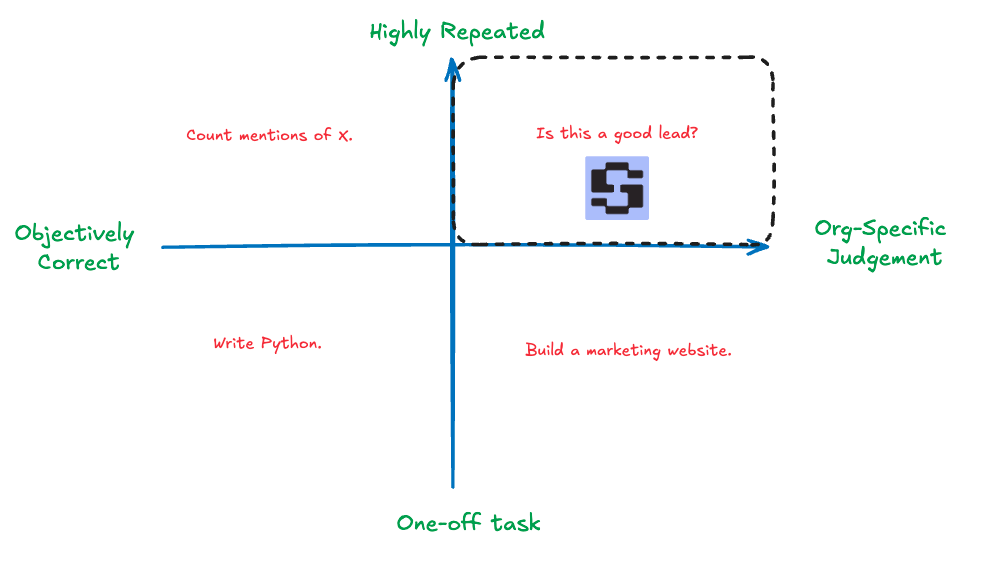
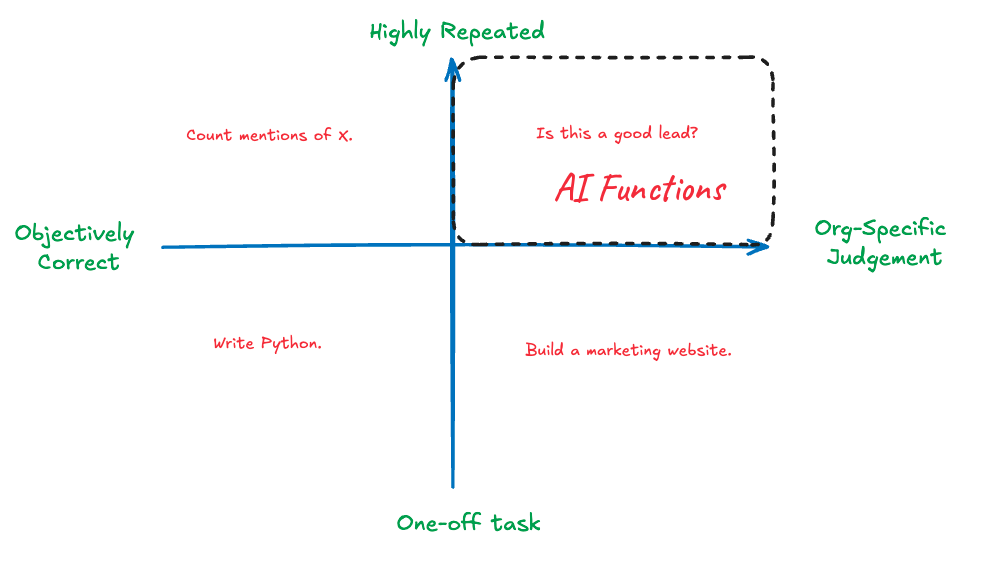
docs: editorial polish for Sutro subjectivity-gap guest post
Apply maintainer editorial over PR #458: house-voice copy, appendix tables,
updated subjectivity-gap figure, Community Blogs section for guest posts,
Contributed by byline, and pagination_per_page 50 so guest posts stay on
the same index page.

Changed region(s): [[0.5505, 0.2713, 0.7339, 0.3918]]

diff --git a/docs/overrides/blog.html b/docs/overrides/blog.html
@@ -5,9 +5,30 @@
       <header class="md-typeset">
         {{ page.content }}
       </header>
+
+      {#- Partition posts: guest frontmatter goes to Community Blogs; everything else is Main -#}
+      {% set ns = namespace(main=[], guest=[]) %}
       {% for post in posts %}
-        {% include "partials/post.html" %}
+        {% if post.meta.get("guest") %}
+          {% set _ = ns.guest.append(post) %}
+        {% else %}
+          {% set _ = ns.main.append(post) %}
+        {% endif %}
       {% endfor %}
+
+      {% if ns.main %}
+        {% for post in ns.main %}
+          {% include "partials/post.html" %}
+        {% endfor %}
+      {% endif %}
+
+      {% if ns.guest %}
+        <h2 class="blog-section-title md-typeset">Community Blogs</h2>
+        {% for post in ns.guest %}
+          {% include "partials/post.html" %}
+        {% endfor %}
+      {% endif %}
+
       {% if pagination %}
         {% block pagination %}
           {% include "partials/pagination.html" %}

diff --git a/docs/overrides/blog-post.html b/docs/overrides/blog-post.html
@@ -18,6 +18,9 @@
 
                 {% if page.authors %}
                     <span class="blog-post-authors">
+                        {%- if page.meta.guest -%}
+                            <span class="blog-post-contrib-label">Contributed by</span>
+                        {%- endif -%}
                         {%- for author in page.authors %}
                             {%- if author.url -%}
                                 <a href="{{ author.url }}"{% if page.meta.external_links_new_tab %} target="_blank" rel="noopener noreferrer"{% endif %}>{{ author.name }}</a>

diff --git a/docs/docs/static/css/custom.css b/docs/docs/static/css/custom.css
@@ -1125,3 +1125,22 @@ div.person-avatar {
 [data-md-color-scheme="slate"] .toc-drawer {
     box-shadow: -4px 0 24px rgba(0, 0, 0, 0.35);
 }
+
+/* Blog index: Main / Guest blogs section headings */
+.blog-section-title {
+    margin: 1.75rem 0 0.75rem;
+    font-size: 1.25rem;
+    font-weight: 700;
+    letter-spacing: -0.01em;
+}
+
+.blog-section-title:first-of-type {
+    margin-top: 1rem;
+}
+
+/* Guest post byline */
+.blog-post-contrib-label {
+    margin-right: 0.35rem;
+    color: var(--md-default-fg-color--light);
+    font-weight: 500;
+}

diff --git a/docs/docs/blog/posts/2026-09-17-bridging-the-subjectivity-gap/index.md b/docs/docs/blog/posts/2026-09-17-bridging-the-subjectivity-gap/index.md
@@ -3,28 +3,29 @@ date:
   created: 2026-09-17
 authors:
   - seth
+guest: true
 slug: bridging-the-subjectivity-gap
 readtime: 8
-title: "Bridging the Subjectivity Gap: How APO Helps Teams Build Expert-Aligned AI Functions"
-description: "A Sutro case study showing how automated prompt optimization aligns repeated AI decisions with organization-specific judgment using only 30 annotations."
+title: "Bridging the Subjectivity Gap: How Automated Prompt Optimization Helps Teams Build Expert-Aligned AI Functions"
+description: "A case study by Sutro showing how automated prompt optimization aligns repeated AI decisions with organization-specific judgment using only 30 annotations."
 social_image: blog/2026-09-17-bridging-the-subjectivity-gap/images/accuracy-lift.png
 external_links_new_tab: true
 ---
 
-# Bridging the Subjectivity Gap: How APO Helps Teams Build Expert-Aligned AI Functions
+# Bridging the Subjectivity Gap: How Automated Prompt Optimization Helps Teams Build Expert-Aligned AI Functions
 
 <div class="blog-stat-strip" markdown>
   <div><strong>30</strong><span><b>annotations</b></span></div>
   <div><strong>+42.9pp</strong><span><b>average accuracy increase</b></span></div>
   <div><strong>+30.6pp</strong><span><b>average consistency increase</b></span></div>
-  <div><strong>79%</strong><span><b>lower inference cost for frontier performance</b></span></div>
+  <div><strong>79%</strong><span><b>cheaper at peak accuracy</b></span></div>
 </div>
 
 Most applied AI organizations build systems for recurring tasks, often taking the form of scorers, judges, classifiers, summarizers, matchers, and more. These tasks are typically subjective in nature, and the goal is to align the judgment of a model with that of a domain expert.
 
 While foundation models have a lot of general world knowledge, they don't know how *your organization* wants a particular decision made. That gap between general intelligence and organization-specific judgment is the **subjectivity gap**.
 
-At <a href="https://sutro.sh/" target="_blank" rel="noopener noreferrer">Sutro</a>, we refer to models that make repeated decisions as **AI Functions**. They make up a less-visible category of intelligence relative to agentic coding, world models, and robotics - but are perhaps just as important, if not more so.
+We refer to models that make repeated decisions as **AI Functions**. They make up a less-visible category of intelligence relative to agentic coding, world models, and robotics - but are perhaps just as important, if not more so.
 
 <!-- more -->
 
@@ -35,22 +36,20 @@ At <a href="https://sutro.sh/" target="_blank" rel="noopener noreferrer">Sutro</
 
 Building AI Functions is easy, but calibrating them to your judgment remains difficult. Common options include hand-tuning prompts, having a coding agent scan a dataset and write a prompt that encodes its own judgment, or collecting labeled data and fine-tuning your own model.
 
-However, we think automated prompt and harness optimization (APO) is a superior tool for building reliable AI Functions for two reasons:
+Reflective prompt optimization is a better fit for this setting, for two reasons:
 
-- **APO works well in sparse-data environments.** You only need to capture enough representative samples to demonstrate the general decision procedure, not thousands of "easy" cases that are already in-distribution for a foundation model.
-- **Modern foundation models are adept at instruction following.** They can follow a well-defined, in-context decision policy. Instead of encoding that policy in model weights through fine-tuning or reinforcement learning, APO can encode it in context - through prompts and, optionally, tools - making the resulting AI Function much more portable.
+- **It works well in sparse-data environments.** You only need to capture enough representative samples to demonstrate the general decision procedure, not thousands of "easy" cases that are already in-distribution for a foundation model.
+- **Modern foundation models are adept at instruction following.** They can follow a well-defined, in-context decision policy. Instead of encoding that policy in model weights through fine-tuning or reinforcement learning, reflective optimization can encode it in context - through prompts and, optionally, tools - so the resulting AI Function can run on off-the-shelf inference.
 
 It's like teaching a new employee or intern how work gets done at your company. If you can give them the right context, instructions, and a handful of tricky examples plus their solutions, they can be surprisingly effective at carrying out specific organizational tasks right out of the gate.
 
-And, of course, <a href="https://gepa-ai.github.io/gepa/" target="_blank" rel="noopener noreferrer">GEPA</a> is perhaps the best open-source APO tool a team can reach for today. Its flexibility, speed, and abstractions such as <a href="https://gepa-ai.github.io/gepa/api/optimize_anything/optimize_anything/" target="_blank" rel="noopener noreferrer"><em>optimize_anything</em></a> make it ideal for adapting to new scenarios.
+For this work we used <a href="https://gepa-ai.github.io/gepa/" target="_blank" rel="noopener noreferrer">GEPA</a>, an open-source reflective optimizer whose flexibility, speed, and abstractions such as <a href="https://gepa-ai.github.io/gepa/api/optimize_anything/optimize_anything/" target="_blank" rel="noopener noreferrer"><em>optimize_anything</em></a> make it practical to adapt to new scenarios.
 
 ## A simple demonstration
 
-At Sutro, we have an internal lead scorer. We built it on top of the Sutro platform, which materializes a dataset of "hard" cases to annotate and optimize against.
+The loop is: build a reference set that encodes *your* judgment, evaluate models against it, then optimize prompts so each model adapts to those labels. The hard part is the first step—finding cases that are both difficult and representative enough to teach the decision policy. Easy examples are already in-distribution for frontier models; they do not surface the subjectivity gap. In this study, the Sutro platform materializes a stream of hard lead-scoring cases for annotation; we used two held-out sets of 30 labels each (one for eval, one for GEPA).[^hard-cases]
 
-We used a simple starting prompt that briefly described what Sutro does and asked models to classify leads as *strong*, *medium*, or *weak* fits. We then evaluated eleven frontier models on a validation set of 30 cases representing Sutro's judgment of lead quality.
-
-Separately, we used GEPA to optimize against an additional 30 annotated cases, allowing each model to independently learn an optimized system prompt for the task. We show the striking results below, plotted against the extrapolated cost to process 1,000 records.
+We started from a short prompt that briefly described what Sutro does and asked models to classify leads as *strong*, *medium*, or *weak* fits, then evaluated eleven frontier models on the eval set. Separately, GEPA optimized each model's system prompt against the training set. Results below are plotted against extrapolated cost to process 1,000 records.
 
 <figure markdown="span">
   ![Scatter plot of held-out lead-scoring accuracy against estimated inference cost for eleven models. Arrows connect each model's default-prompt accuracy to its optimized-prompt accuracy, showing gains of 20 to 73 percentage points.](images/accuracy-lift.png){ style="width: 100%;" }
@@ -59,8 +58,65 @@ Separately, we used GEPA to optimize against an additional 30 annotated cases, a
 
 <figure markdown="span">
   ![Dumbbell chart comparing default-prompt and optimized-prompt consistency for eleven models over ten runs. Every optimized prompt exceeds 90 percent consistency, and the all-model average rises by 30.6 percentage points.](images/consistency-lift.png){ style="width: 100%;" }
-  <figcaption>Optimization also made model judgments substantially more repeatable. Every model exceeded 90% consistency after optimization.</figcaption>
+  <figcaption>Optimization also made model judgments substantially more repeatable. Every model exceeded 90% consistency after optimization, measured as modal answer rate over ten runs.</figcaption>
 </figure>
+
+Every model gained accuracy (mean **+42.9pp**); several open-weight models matched or beat larger proprietary ones after optimization. Consistency, measured as modal answer rate over ten runs, rose above **90%** for all eleven. Per-model numbers are in the [Appendix](#appendix-per-model-results).
+
+### Cost
+
+Optimized prompts averaged **15.4%** higher cost per lead (longer context). After adaptation, though, Nemotron 3 Super and GPT 5.6 Luna hit the study's peak accuracy (**90%**) at **54%** and **79%** lower cost than Gemini 3.5 Flash (optimized peak **77%**). Serving cost is dominated by which model you pick once prompts are adapted—not by the modest prompt-length overhead (often cacheable).
+
+## Becoming model-agnostic
+
+It's worth reiterating that we treated this task as model-agnostic. We created an annotation set of hard cases, gave each model the opportunity to adapt to the task with reflective optimization, and then let our own evaluation tell us which models were best suited for the job. We used our own data, representing our own decision criteria, to make an informed choice about which model to deploy.
+
+This becomes particularly important when there are real deployment constraints. If a team needs to use an open-weight model for security reasons or stay below a particular inference cost, a task-specific evaluation like this can show which models actually satisfy those constraints **after adaptation**, rather than forcing the team to infer suitability from general-purpose benchmarks.
+
+## Alternatives
+
+**Manual prompt engineering.** If we were to do the same exercise with manual prompt engineering, it would require the time-intensive process of:
+
+- Gathering hard and representative samples by hand and setting up tooling to track performance quality on each iteration.
+- Manually looking for error modes in failed cases and appending them as new rules to the prompt. This could take hours, days, or weeks, depending on quality needs.
+- Repeating this for every model we want to test - or hoping a single prompt generalizes well to all of them.
+
+**Model-written prompts.** We could ask Claude or another auto-grader to populate our annotations instead of humans, but this defeats the purpose of learning our subjective rules.
+
+**Fine-tuning or reinforcement learning.** Weight-based adaptation can be powerful, particularly when sufficient training data and verifiable rewards are available. For this task, however, reflective optimization produced substantial improvement from only 30 annotations and required no weight updates.
+
+In our case, 30 annotations earned us an average of **42.9** percentage points of task accuracy.
+
+Because reflective optimization doesn't require weight updates, it's easy to run AI Functions using off-the-shelf, serverless inference providers. It also becomes trivial to re-optimize whenever labeled data arrives.
+
+## Own the eval, then pick the model
+
+As more public benchmarks become saturated and the frontier landscape fragments, more applied AI teams are asking:
+
+- Is this model performant on *our task*, not just a public benchmark?
+- How can we have greater sovereignty over the models that run *our tasks* on *our data*?
+- How can we become *model-agnostic* and adapt our tasks to the best model for the job?
+
+We used GEPA to answer those questions for our lead scorer. Many enterprise tasks look like this: the last mile is subjective judgment.
+
+Reflective optimization is also a way to lift open-weight models to or above proprietary ones on a given task, without training custom weights. As more models become available, cheap, inspectable adaptation starts to matter alongside fine-tuning and RL.
+
+## Limitations
+
+- Selecting and maintaining hard, representative annotation sets remains the main bottleneck (see above). That is the workflow <a href="https://sutro.sh/" target="_blank" rel="noopener noreferrer">Sutro</a> is built around.
+- Reflective optimizers like GEPA still need good scorers. Sometimes a simple label match is enough; other times you need meta-judges or richer objectives.
+
+## Related: aligning structured judges
+
+A related line of work applies the same subjectivity-gap idea to structured judgment models (for example TypeSafe's Jev): align the judge to human labels with reflective optimization rather than treating zero-shot judgment as fixed. See <a href="https://github.com/sutro-sh/jev-align" target="_blank" rel="noopener noreferrer">sutro-sh/jev-align</a> for an open example of that loop.
+
+## Reach out
+
+Questions about this guest post are welcome at [team@sutro.sh](mailto:team@sutro.sh). For GEPA itself, join the community on <a href="https://join.slack.com/t/gepa-ai/shared_invite/zt-3o352xhyf-QZDfwmMpiQjsvoSYo7M1_w" target="_blank" rel="noopener noreferrer">Slack</a>.
+
+## Appendix: per-model results {#appendix-per-model-results}
+
+Held-out accuracy and consistency for each of the eleven models. Consistency is the modal answer rate over ten independent runs with the same prompt.
 
 **Accuracy**
 
@@ -102,84 +158,5 @@ Separately, we used GEPA to optimize against an additional 30 annotated cases, a
 
 </div>
 
-**Every single model sees a sizable accuracy gain.** Small, open-weight models often exceed the task quality of much larger proprietary models at a fraction of the cost.
+[^hard-cases]: Sutro's platform materializes hard examples for annotation and optimization. Curating that stream—not writing the starting prompt—is the scarce step.
 
-Perhaps equally important, response consistency also dramatically improves, **lifting all models above 90%** across ten runs for each model-prompt combination.
-
-You may scoff and think, "Of course accuracy goes up; the system was optimized against your subjective decision criteria." If so, you understand the point. We are measuring decision *alignment* against an organization-defined reference set, not objectively verifiable outcomes. This is the nature of LLM judges and of many applied AI evaluations without verifiable rewards.
-
-### Cost improvements
-
-The average cost of scoring each additional lead with the optimized prompt **grew** by **15.4%**. However, optimized Nemotron 3 Super and GPT 5.6 Luna matched the highest observed accuracy while costing **54%** and **79% less** per lead, respectively, than Gemini 3.5 Flash. These savings far outweigh the cost increase from longer input prompts, which can often be cached.
-
-## Becoming model-agnostic
-
-It's worth reiterating that we treated this task as model-agnostic. We created an annotation set of hard cases, gave each model the opportunity to adapt to the task with APO, and then let our own evaluation tell us which models were best suited for the job. We used our own data, representing our own decision criteria, to make an informed choice about which model to deploy.
-
-This becomes particularly important when there are real deployment constraints. If a team needs to use an open-weight model for security reasons or stay below a particular inference cost, a task-specific evaluation like this can show which models actually satisfy those constraints **after adaptation**, rather than forcing the team to infer suitability from general-purpose benchmarks.
-
-## Alternatives
-
-**Manual prompt engineering.** If we were to do the same exercise with manual prompt engineering, it would require the time-intensive process of:
-
-- Gathering hard and representative samples by hand and setting up tooling to track performance quality on each iteration.
-- Manually looking for error modes in failed cases and appending them as new rules to the prompt. This could take hours, days, or weeks, depending on quality needs.
-- Repeating this for every model we want to test - or hoping a single prompt generalizes well to all of them. Spoiler: it often doesn't.
-
-**Model-written prompts.** We could ask Claude or another auto-grader to populate our annotations instead of humans, but this defeats the purpose of learning our subjective rules.
-
-**Fine-tuning or reinforcement learning.** Weight-based adaptation can be powerful, particularly when sufficient training data and verifiable rewards are available. For this task, however, APO produced substantial improvement from only 30 annotations and required no weight updates.
-
-In our case, 30 annotations earned us an average of **42.9** percentage points of task accuracy, or **1.43 percentage points per annotation**.
-
-Because APO doesn't require weight updates, it's easy to run AI Functions using off-the-shelf, serverless inference providers. It also becomes trivial to re-optimize whenever labeled data arrives.
-
-## Own your own evals, own your own intelligence
-
-As more public benchmarks become saturated and the frontier landscape fragments, more applied AI teams are asking:
-
-- Is this model performant on *our task*, not just a public benchmark?
-- How can we have greater sovereignty over the models that run *our tasks* on *our data*?
-- How can we become *model-agnostic* and adapt our tasks to the best model for the job?
-
-We believe APO - and, in turn, GEPA - can help deliver these answers for many companies. Many enterprise tasks take the form of AI Functions, where subjective judgment represents the last mile in making a task work well, as we demonstrated with our internal lead scorer.
-
-Moreover, APO is a way to lift the performance of open-weight models to or above that of their proprietary counterparts without needing to train custom models. As intelligence proliferates, we believe cheap, efficient, and portable ways to adapt models will be extremely helpful alongside alternatives such as reinforcement learning and fine-tuning.
-
-## Limitations
-
-- As mentioned, one of the most challenging aspects of using APO is gathering high-quality annotations on difficult and representative samples. In practice, teams need infrastructure for finding hard examples, collecting annotations, and maintaining those datasets over time. This is one of the problems we work on at <a href="https://sutro.sh/" target="_blank" rel="noopener noreferrer">Sutro</a>.
-- APO and GEPA require good scorers and objective functions to hill-climb successfully. Sometimes these are straightforward to set up; other times, strong results require meta-judges or other complex scorers.
-
-## Addendum: TypeSafe's Jev
-
-We ran this benchmark before the release of <a href="https://typesafe.ai/blog/introducing-system-one-models-and-jev" target="_blank" rel="noopener noreferrer">TypeSafe's Jev model</a>. Instead of including it head-to-head with the other models, we include its results here because Jev cannot yet be optimized directly in the same way Sutro optimizes other LLMs with GEPA.
-
-To run what we think is a fair benchmark, we transferred the optimized prompts from each of the eleven models we tested and reformatted them as TypeSafe's documentation suggests. We evaluated all eleven transferred prompts on held-out cases, then compared their average and best performance with the unoptimized prompt.
-
-| Metric | Result |
-| --- | ---: |
-| **Zero-shot accuracy** | 80% |
-| **Average post-optimization accuracy** | 77% |
-| **Highest accuracy from a specifically transferred prompt** | 86.7% |
-| **Estimated cost per 1,000 records, unoptimized** | $0.07 |
-| **Estimated cost per 1,000 records, optimized** | $0.097 |
-| **Consistency** | 100% over 10 runs |
-
-Notably:
-
-- It had the best zero-shot performance across the models benchmarked.
-- Its best-case optimization outcome was below the best accuracy of the other models.
-- It was approximately 5× less expensive than Luna, the next-best model on price, and leading overall performance.
-- It's very fast, though we did not benchmark the latency of the other models.
-- It's deterministic, so no variance appears between runs.
-
-Overall, while its accuracy was below the best-case performance in this benchmark, we're extremely excited by Jev and instruction-following discriminators as a model class. We should not treat its optimization accuracy as a ceiling - better methods for adapting this type of model will arise, and this benchmark covers only one task.
-
-Jev suggests an interesting direction for AI Functions: models purpose-built for instruction-following and decision-making may dramatically improve the baseline economics and consistency of these workloads. But the subjectivity gap remains: deciding what "correct" means for a particular task, measuring it, and adapting the system accordingly.
-
-One thing is clear: as intelligence becomes too cheap to meter and the number of tasks we can automate grows dramatically, more efficient tools for last-mile alignment will become increasingly important. We've only just seen the start.
-
-## Reach out
-
-If you have questions about this post, GEPA, APO, or getting started with AI Functions in general, email [team@sutro.sh](mailto:team@sutro.sh) or join the GEPA community on <a href="https://join.slack.com/t/gepa-ai/shared_invite/zt-3o352xhyf-QZDfwmMpiQjsvoSYo7M1_w" target="_blank" rel="noopener noreferrer">Slack</a>.

diff --git a/docs/docs/blog/posts/2026-03-17-confidence-adapter-benchmark/index.md b/docs/docs/blog/posts/2026-03-17-confidence-adapter-benchmark/index.md
@@ -3,6 +3,7 @@ date:
   created: 2026-03-17
 authors:
   - rodolfo
+guest: true
 slug: confidence-adapter-benchmark
 readtime: 15
 title: "Confidence-Aware Prompt Optimization for LLM Classification"
